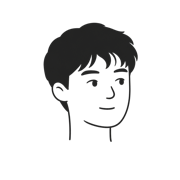
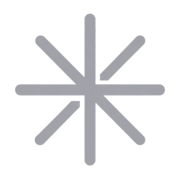
Update portfolio content and branding

Changed region(s): [[0.0833, 0.0556, 0.9167, 0.9167]]

diff --git a/src/content/site.ts b/src/content/site.ts
@@ -2,9 +2,34 @@
 
 export const site = {
   name: "William Zhao",
-  role: "Product",
+  role: "Founder, Product",
   email: "williamzhao474@gmail.com",
+  location: "San Francisco, CA",
+  seeking: "Seeking a Summer 2027 Product Management internship",
 };
+
+export type SkillGroup = {
+  label: string;
+  items: string;
+};
+
+export const skills: SkillGroup[] = [
+  {
+    label: "Product",
+    items:
+      "User research, roadmapping, prioritization, A/B testing, funnel and retention analysis, monetization design, data-informed decision making",
+  },
+  {
+    label: "Technical",
+    items:
+      "Python, JavaScript/TypeScript, React, React Native, Django, PostgreSQL, OpenAI API & embeddings",
+  },
+  {
+    label: "Tools",
+    items:
+      "PostHog, Microsoft Clarity, Stripe, Linear, Notion, Figma, Google Search Console",
+  },
+];
 
 export type ExperienceItem = {
   year: string;
@@ -14,10 +39,13 @@ export type ExperienceItem = {
 };
 
 export const experience: ExperienceItem[] = [
-  { year: "Now", org: "UC Santa Cruz", role: "Computer Science · graduating 2028" },
-  { year: "2026", org: "Muochi", role: "Co-founder, Product · 115k users" },
-  { year: "2025", org: "CareerLoop", role: "Founder, Product · 30k users" },
-  { year: "2024", org: "The Humanities Institute, UCSC", role: "Research Assistant" },
+  { year: "Now", org: "UC Santa Cruz", role: "B.A. Computer Science · expected Dec 2027" },
+  { year: "2024 — 2025", org: "CareerLoop", role: "Founder, Product · 145k users" },
+  {
+    year: "2023 — 2024",
+    org: "The Humanities Institute, UCSC",
+    role: "Research Assistant",
+  },
 ];
 
 export type Project = {
@@ -39,58 +67,17 @@ export type Project = {
 
 export const projects: Project[] = [
   {
-    slug: "muochi",
-    title: "115,000 users, and what killed it",
-    subtitle: "Muochi",
-    status: "",
-    aspect: "aspect-[16/9]",
-    accent: "rgba(220, 38, 38, 0.10)",
-    image: "/projects/muochi/muochi.png",
-    metrics: [
-      { value: "115k", label: "users" },
-      { value: "3M", label: "views" },
-      { value: "$25k", label: "revenue" },
-      { value: "11%", label: "D1 retention" },
-    ],
-    sections: [
-      {
-        heading: "What it was",
-        body: "Interactive slides repurposed for gifting. You build something for one person, send it, they open it.",
-      },
-      {
-        heading: "Why I built it",
-        body: "CareerLoop died because you only need a resume once. Gifting looked recurring — birthdays, holidays, anniversaries — and it was far more viral.",
-      },
-      {
-        heading: "How it grew",
-        body: "Valentine's Day. TikTok does over 100 billion views on that search alone, so the attention was already there — I just had to be in front of it.",
-      },
-      {
-        heading: "What happened",
-        body: "Users and revenue spiked together in February, then decayed. $25k total, almost all of it in that window.",
-      },
-      {
-        heading: "Why it died",
-        body: "11% D1 retention. Better than CareerLoop's 4%, still not a business. Gifting is occasion-bound, the free template was good enough for most people, and a $1.99 one-time fee meant each user was worth $1.99 exactly once.",
-      },
-      {
-        heading: "What I'd do differently",
-        body: "Virality isn't a business without retention. I'd take a smaller product people open weekly over a spike I have to re-earn every February.",
-      },
-    ],
-  },
-  {
     slug: "careerloop",
-    title: "An AI resume builder that reached 30,000 users",
+    title: "An AI resume builder that reached 145,000 users",
     subtitle: "CareerLoop",
     status: "",
     aspect: "aspect-[16/9]",
     accent: "rgba(37, 99, 235, 0.10)",
     image: "/projects/careerloop/careerloop.png",
     metrics: [
-      { value: "30k", label: "users" },
+      { value: "145k", label: "users" },
       { value: "100M", label: "views" },
-      { value: "$30k", label: "revenue in 6 months" },
+      { value: "$50k", label: "revenue in 6 months" },
       { value: "4%", label: "D1 retention" },
       { value: "3.31%", label: "free to paid" },
     ],
@@ -101,7 +88,7 @@ export const projects: Project[] = [
       },
       {
         heading: "How it grew",
-        body: "Social, no ad spend. ~100M views across platforms brought in 30,000 users.",
+        body: "Social, no ad spend. ~100M views across platforms brought in 145,000 users.",
         image: {
           src: "/projects/careerloop/tiktok-analytics.png",
           alt: "TikTok analytics showing 63M video views, 1.6M likes, and 207K shares over one year",
@@ -112,11 +99,23 @@ export const projects: Project[] = [
       },
       {
         heading: "What worked",
-        body: "96% of signups finished onboarding and built a resume, and 3.31% of them paid — $30k over six months.",
+        body: "I cut onboarding from seven steps to three. 96% of signups finished it and built a resume, and 3.31% of them paid — $50k over six months.",
+      },
+      {
+        heading: "What I shipped",
+        body: "Resume upload, bullet generation, and full rewrites, plus role matching against scraped job listings.",
+      },
+      {
+        heading: "What I killed",
+        body: "An AI career copilot, before launch. The agent was inconsistent, and the interface required teaching users a new interaction model — something the core flow never asked of them.",
+      },
+      {
+        heading: "Pricing",
+        body: "Subscription churn hit 47%, so I tested three models against it: a carded free trial, a $1.99 tripwire, and one-time pricing. Users bought more $9.99 single downloads than $19.99 unlimited — they underestimated their own usage. I shipped the model that matched the behavior I could observe, not the one with the better theoretical LTV.",
       },
       {
         heading: "What didn't",
-        body: "4% D1 retention. You build a resume once and you're done — there was no reason to come back.",
+        body: "4% D1 retention. I read it as a product-market problem rather than a funnel problem: you build a resume once and you're done — there was no reason to come back.",
       },
       {
         heading: "How it ended",
@@ -139,6 +138,28 @@ export const projects: Project[] = [
       {
         outlet: "Santa Cruz Works",
         href: "https://www.santacruzworks.org/news/careerloop",
+      },
+    ],
+  },
+  {
+    slug: "translation-pipeline",
+    title: "A translation pipeline humanities researchers could run themselves",
+    subtitle: "The Humanities Institute, UCSC",
+    status: "",
+    aspect: "aspect-[16/9]",
+    accent: "rgba(22, 163, 74, 0.10)",
+    sections: [
+      {
+        heading: "What it was",
+        body: "A pipeline that ingested large PDF corpora and ran them through OpenAI and other models. The faculty lead passed its output to graduate researchers, who evaluated translation quality against the source texts.",
+      },
+      {
+        heading: "The call I made",
+        body: "I shipped it as a web app rather than internal tooling. The researchers were humanities faculty, not engineers — internal tooling would have meant they filed requests and waited on me. A web app meant they ran translations themselves without touching a script. Python, Flask, deployed on Heroku.",
+      },
+      {
+        heading: "What the role actually was",
+        body: "Translating the faculty lead's research goals into buildable requirements, and scoping what was technically feasible against what they wanted. Five-person research assistant team split across engineering and UI/UX.",
       },
     ],
   },

diff --git a/src/app/page.tsx b/src/app/page.tsx
@@ -1,5 +1,5 @@
 import ProjectCard from "@/components/ProjectCard";
-import { experience, projects } from "@/content/site";
+import { experience, projects, site, skills } from "@/content/site";
 
 export default function Home() {
   return (
@@ -7,9 +7,12 @@ export default function Home() {
       <div className="flex flex-col w-full max-w-[1800px]">
         <section className="grid grid-cols-1 gap-12 lg:gap-6 pt-8 lg:pt-[26vh] pb-8 w-full">
           <h1 className="max-w-[700px] text-[clamp(2rem,5vw,3.5rem)] leading-[1.1] tracking-tight font-normal">
-            I&apos;m William. I&apos;ve built two consumer apps that reached
-            145,000 people.
+            I&apos;m William. I build products and follow the evidence.
           </h1>
+
+          <p className="max-w-[700px] text-[15px] opacity-60 -mt-6 lg:-mt-2">
+            {site.seeking} · {site.location}
+          </p>
 
           <div className="flex flex-col gap-3 lg:gap-1">
             {experience.map((item) => (
@@ -42,6 +45,19 @@ export default function Home() {
         <section className="flex flex-col gap-6 pb-12">
           {projects.map((project) => (
             <ProjectCard key={project.slug} project={project} />
+          ))}
+        </section>
+
+        <section className="flex flex-col gap-3 lg:gap-1 pb-16">
+          {skills.map((group) => (
+            <div key={group.label} className="flex gap-2">
+              <span className="w-26 min-w-26 text-[15px] opacity-60">
+                {group.label}
+              </span>
+              <span className="max-w-[700px] text-[15px] opacity-60">
+                {group.items}
+              </span>
+            </div>
           ))}
         </section>
       </div>

diff --git a/src/app/layout.tsx b/src/app/layout.tsx
@@ -19,7 +19,7 @@ const geistMono = Geist_Mono({
 export const metadata: Metadata = {
   title: "William Zhao | Product",
   description:
-    "CS student at UC Santa Cruz. I've built two consumer apps that reached 145,000 people.",
+    "Product builder and Computer Science student at UC Santa Cruz, seeking a Summer 2027 Product Management internship.",
 };
 
 export default function RootLayout({

diff --git a/resume/william-zhao-resume.tex b/resume/william-zhao-resume.tex
@@ -109,7 +109,7 @@
 
   \resumeSubheading
     {University of California, Santa Cruz}
-    {Expected 2028}
+    {Expected December 2027}
     {B.A. Computer Science}
     {Santa Cruz, CA}
 
@@ -118,40 +118,6 @@
 %-----------EXPERIENCE-----------
 \section{Experience}
 \resumeSubHeadingListStart
-
-  \resumeSubheading
-    {Co-founder, Product}
-    {Dec 2025 -- Mar 2026}
-    {Muochi}
-    {San Francisco, CA}
-
-  \resumeItemListStart
-
-    \resumeItem{
-      Owned product end to end for a tool that turns branching slideshows into
-      personalized digital gifts: the sender builds paths the recipient clicks
-      through, then shares it as a link. Reached \metric{115,000 users}.
-    }
-
-    \resumeItem{
-      Scoped the product around an occasion with existing demand rather than
-      building for a general use case, and shipped to that window; the launch
-      produced \$25K in revenue.
-    }
-
-    \resumeItem{
-      Instrumented the retention funnel in PostHog and traced the 11\% D1 ceiling
-      to the product itself, not the funnel: gifting is occasion-bound, so there
-      was no reason to come back.
-    }
-
-    \resumeItem{
-      Ran session replays and cut signup, personalization, and the drag-and-drop
-      editor from the path to first value; users went straight to a template,
-      with payment deferred to customization.
-    }
-
-  \resumeItemListEnd
 
   \resumeSubheading
     {Founder, Product}
@@ -163,20 +129,24 @@
 
     \resumeItem{
       Built and owned an AI resume builder from problem definition through
-      launch, reaching \metric{30,000 users} with no paid acquisition.
+      launch, reaching \metric{145,000 users} with no paid acquisition.
     }
 
     \resumeItem{
       Cut onboarding from seven steps to three; 96\% of signups completed it and
-      built a resume, and 3.31\% converted to paid, producing \$30K over six
+      built a resume, and 3.31\% converted to paid, producing \$50,000 over six
       months.
     }
 
     \resumeItem{
       Tested three monetization models against a 47\% subscription churn rate: a
-      carded free trial, a \$1.99 tripwire, and one-time pricing. Shipped the
-      model that matched observed behavior, since users bought more \$9.99 single
-      downloads than \$19.99 unlimited, underestimating their own usage.
+      carded free trial, a \$1.99 tripwire, and one-time pricing.
+    }
+
+    \resumeItem{
+      Found users bought more \$9.99 single downloads than \$19.99 unlimited,
+      underestimating their own usage. Shipped the model that matched observed
+      behavior over the one with the better theoretical LTV.
     }
 
     \resumeItem{
@@ -186,9 +156,13 @@
 
     \resumeItem{
       Shipped resume upload, bullet generation, and full rewrites, plus role
-      matching against scraped job listings. Killed an AI career copilot before
-      launch: the agent was inconsistent and the interface required teaching
-      users a new interaction model, which the core flow did not.
+      matching against scraped job listings.
+    }
+
+    \resumeItem{
+      Cut an AI career copilot before launch: the agent was inconsistent, and
+      the interface required teaching users a new interaction model that the
+      core flow never asked of them.
     }
 
     \resumeItem{
@@ -206,9 +180,9 @@
   \resumeItemListStart
 
     \resumeItem{
-      Built a translation pipeline that ingested large PDF corpora and ran them
-      through OpenAI and other models; the faculty lead passed its output to
-      graduate researchers, who evaluated quality against source texts.
+      Worked on a five-person team split across engineering and UI/UX,
+      translating the faculty lead's research goals into buildable requirements
+      and scoping what was technically feasible.
     }
 
     \resumeItem{
@@ -218,9 +192,40 @@
     }
 
     \resumeItem{
-      Translated the faculty lead's research goals into buildable requirements,
-      scoping what was technically feasible, on a five-person research assistant
-      team split across engineering and UI/UX.
+      Built the translation pipeline that ingested large PDF corpora and ran
+      them through OpenAI and other models; the faculty lead passed its output
+      to graduate researchers, who evaluated quality against source texts.
+    }
+
+  \resumeItemListEnd
+
+\resumeSubHeadingListEnd
+
+%-----------PROJECTS-----------
+\section{Projects}
+\resumeSubHeadingListStart
+
+  \resumeProjectHeading
+    {\textbf{Milkbun} $|$ \emph{React Native, Swift, Godot, Supabase}}{}
+
+  \resumeItemListStart
+
+    \resumeItem{
+      An iOS focus app built on Apple's Screen Time API, with a collectible
+      island as the metagame that rewards real focus behavior.
+    }
+
+    \resumeItem{
+      Made the core surface a recurring window rather than a timer, cutting the
+      countdown, start button, and failure state: a timer is something you run,
+      a boundary is something that is simply true about your day.
+    }
+
+    \resumeItem{
+      Designed the retention loop so yesterday's focus determines today's
+      visitors, letting the metagame reinforce the habit instead of interrupting
+      it. Ruled out streak resets: absence lowers an animal's visit odds but
+      never removes earned progress.
     }
 
   \resumeItemListEnd
